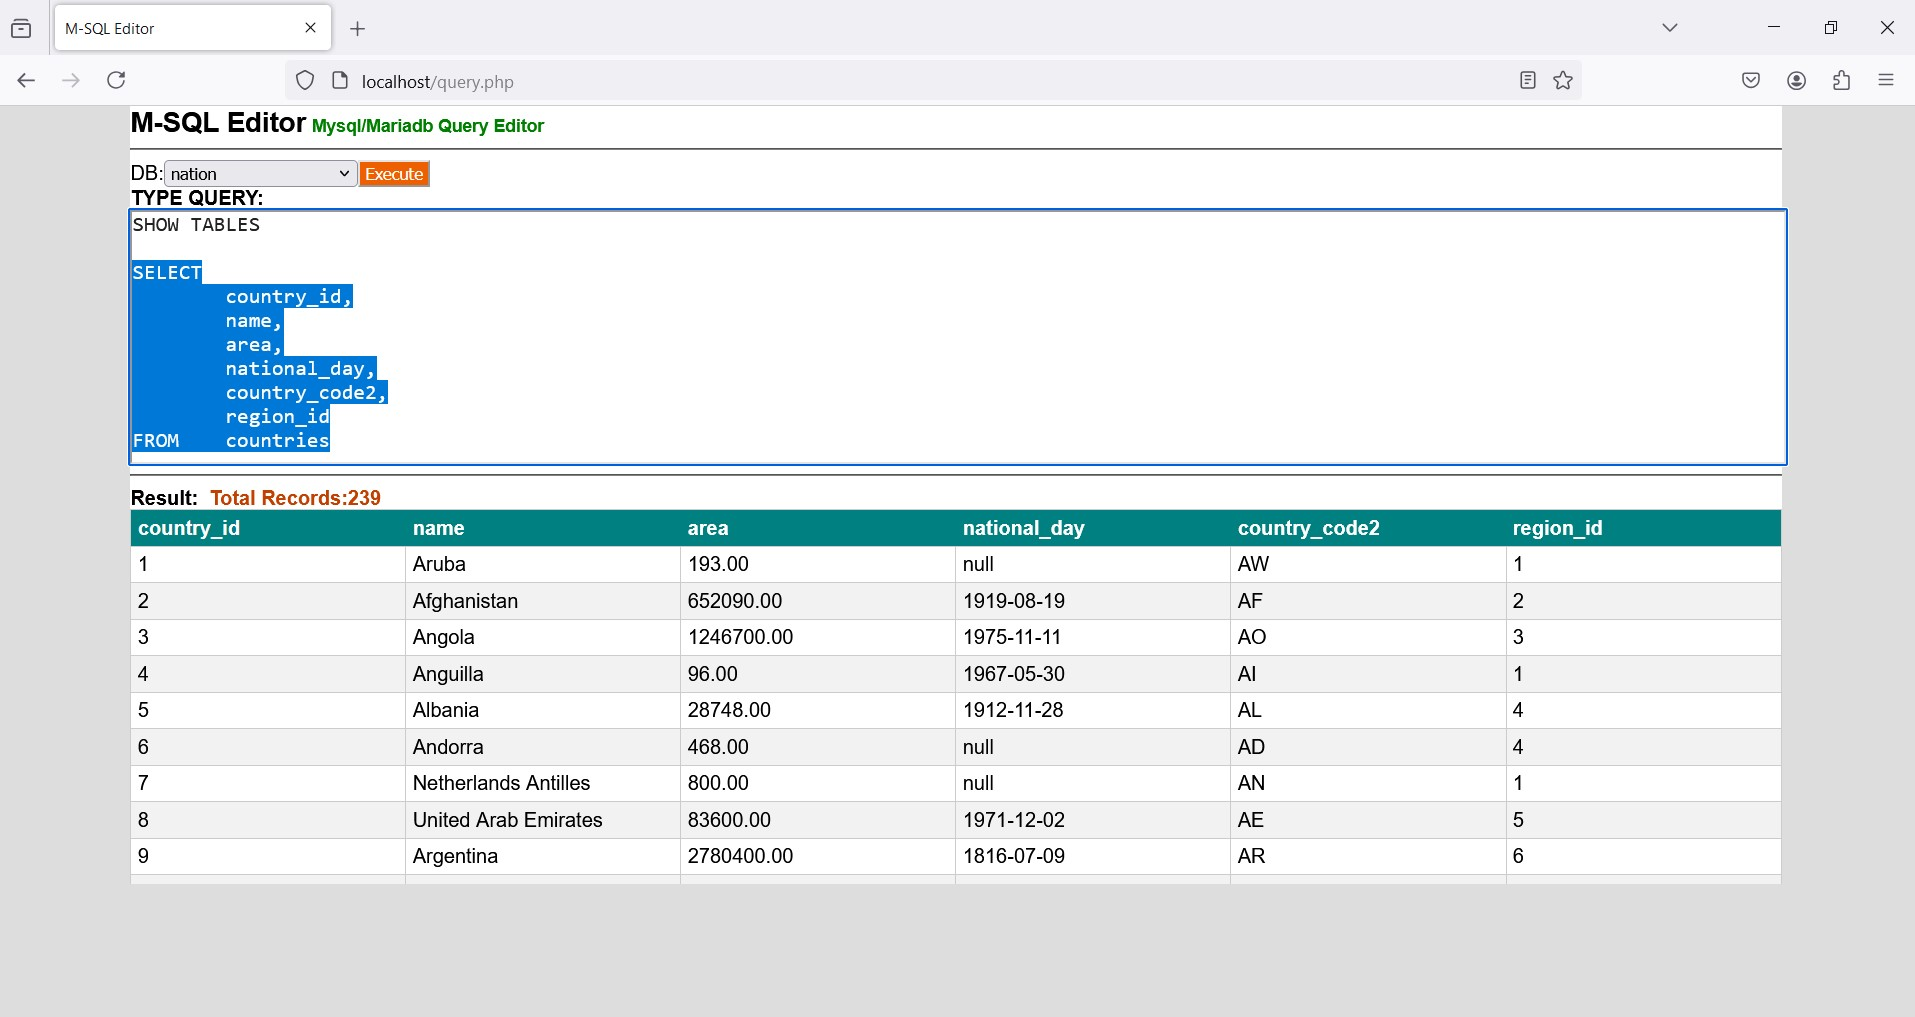
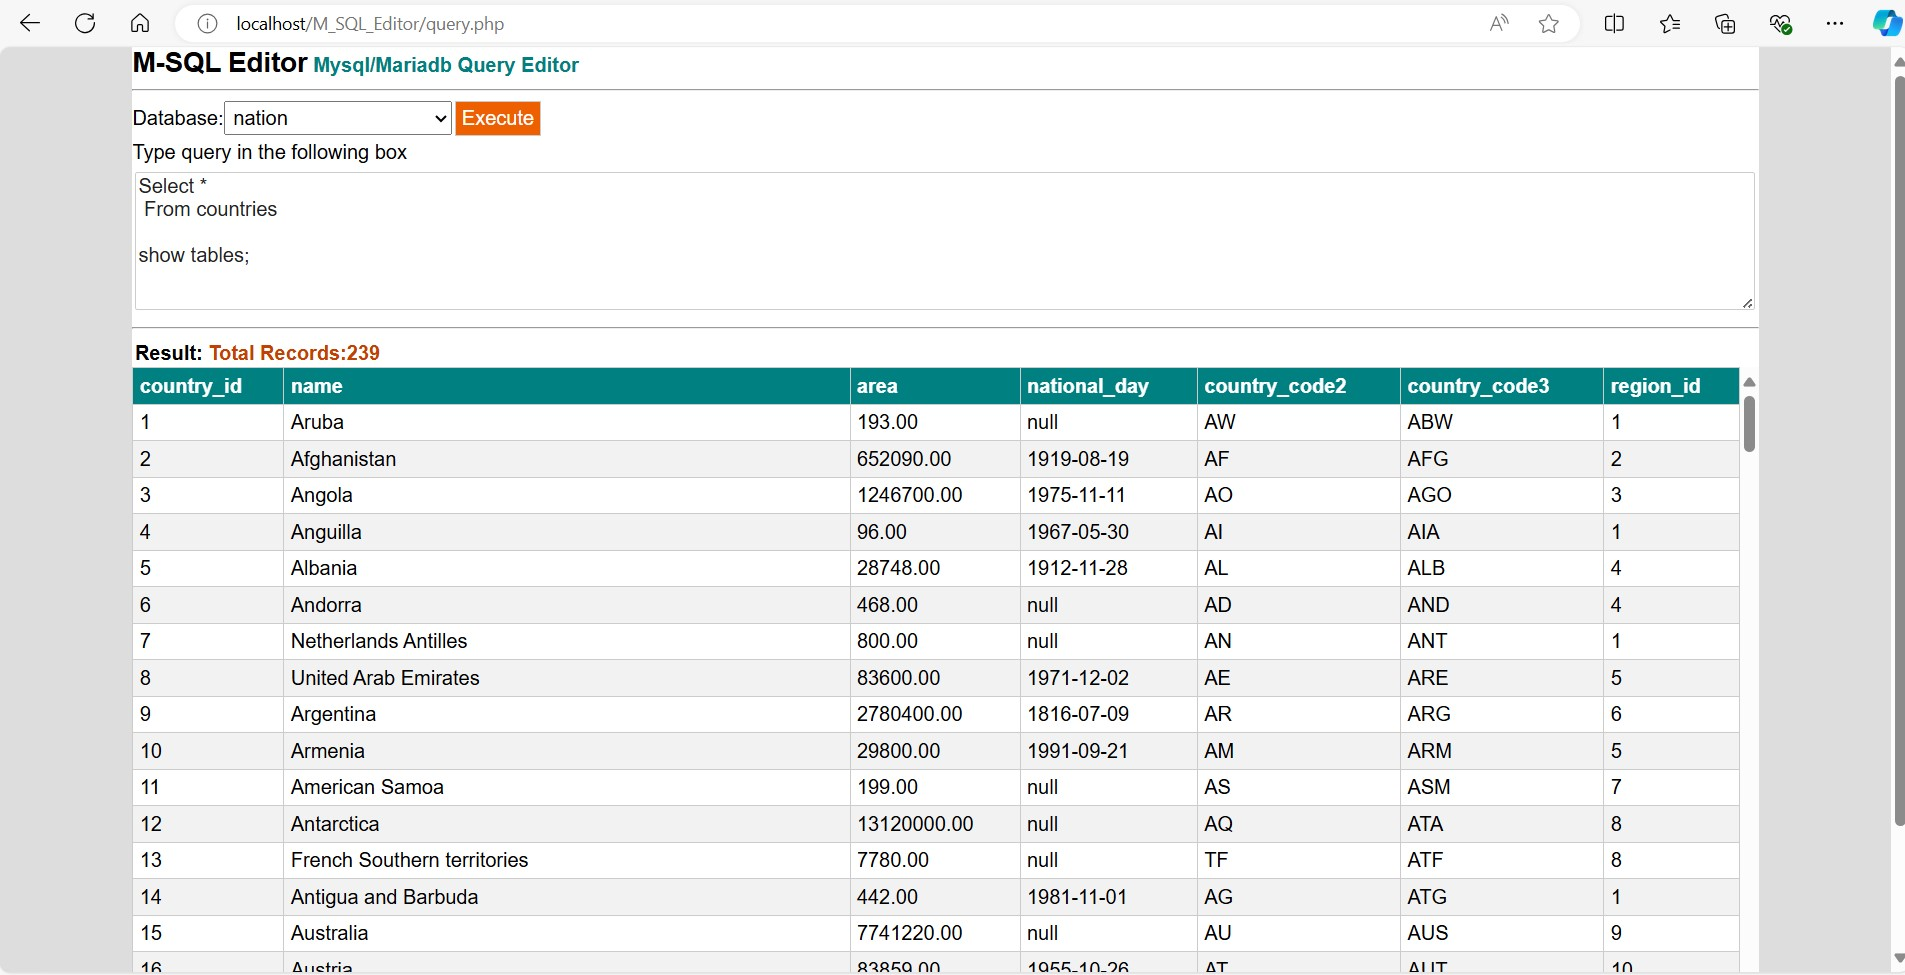
improved look and feel a little bit

diff --git a/querystyle.css b/querystyle.css
@@ -3,7 +3,7 @@
 				padding:0px;
 				margin:0px;
 				background-color:#ddd;
-				font-family: sans-serif;
+				font-family: Arial;
 		}
 		#wrapper{
 			
@@ -15,23 +15,34 @@
 		#exec{
 			background-color:#EE5F00;
 			color:white;
+			margin:0px 2px;
+			padding:4px 5px;
+			font-size:1em;
+			border: 1px solid #ccc;
 		}
 		textarea
 		{
-				width:100%;
+				width:99.2%;
 				height:200px; 
-				margin:0px;
-				padding:0px;
+				margin:2px;
+				padding:2px;
 				background-color:#fff;
 				color:#222;
-				font:monospace;
-				font-size:1.3em;
+				font-family: Arial;
+				font-size: 1em;
 				resize: vertical;
+				border: 1px solid #ccc;
+				border-radius:2px;
+		}
+		#db_list{
+			margin:0px;
+			padding:3px;
+			font-size: 1em;
 		}
 		table {
 		width: 100%;
 		border-collapse: collapse;
-		table-layout: fixed;
+		/*table-layout: fixed;*/
 		}
 
 		thead {

diff --git a/query.php b/query.php
@@ -130,7 +130,7 @@ function get_select_str()
 $table_str='';
 $query_str='';
 $msg='';
-$ediHeight='200';
+$ediHeight='100';
 try{
 if(isset($_POST['exec']) && $_POST['exec'] == 'Execute')
 {
@@ -209,23 +209,23 @@ return true;
 </head>
 <body>
 	<div id="wrapper">
-	<SPAN style="font-size:22px;font-weight:bold;">M-SQL Editor</span> <span style="font-size:14px;color:Green;font-weight:bold;">Mysql/Mariadb Query Editor</span><br/><hr/>
+	<SPAN style="font-size:22px;font-weight:bold;">M-SQL Editor</span> <span style="font-size:14px;color:teal;font-weight:bold;font-size:1em;">Mysql/Mariadb Query Editor</span><br/><hr/>
 	<?php
 	$this_page=$_SERVER['PHP_SELF'];
 
 	echo('
 	<form action="'.$this_page.'" method="post">
-	<lablel>DB:</label><select name="db">'.get_select_str().'</select><input type="submit" id="exec" name="exec" value="Execute" onclick="javascript:get_text();"/><br/>
-	<span style="font-weight:bold;">TYPE QUERY:</span><br/>
+	<lablel>Database:</label><select name="db" id="db_list">'.get_select_str().'</select><input type="submit" id="exec" name="exec" value="Execute" onclick="javascript:get_text();"/><br/>
+	<div style="margin:4px 0px;">Type query in the following box</div>
 	<textarea  name="query" id="query" onkeydown="handleTabKey(event, this);" style="height:'.$ediHeight.'px;" />'.$query_str.'</textarea>
 	<input type="hidden" id="qry" name="qry"/>
 	<input type="hidden" id="ediHt" name="ediHt"/>
 	</form>
 <hr/>
 
-	   <span style="font-weight:bold;">Result:</span>&nbsp;'.$msg.'
-	   <span style="font-weight:bold;color:#C34100">Total Records:'.$coun.'</span>
-	   <div style="overflow:scroll;margin:0px;padding:0px;width:100%px;height:300px;">
+	   <div style="font-weight:bold;padding:2px;"><span>Result:'.$msg.'</span>
+	   <span style="font-weight:bold;color:#C34100">Total Records:'.$coun.'</span></div>
+	   <div style="overflow:scroll;margin:0px;padding:0px;width:auto;height:600px;">
 	   '.$table_str.'
 	   </div>');
 	   ?>
